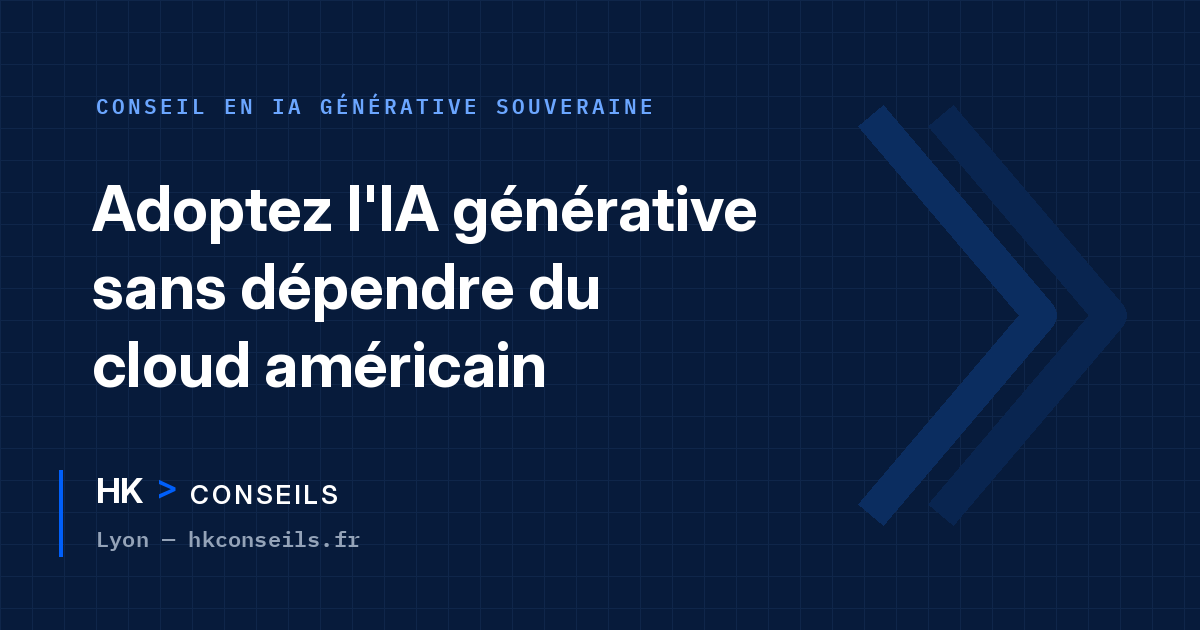
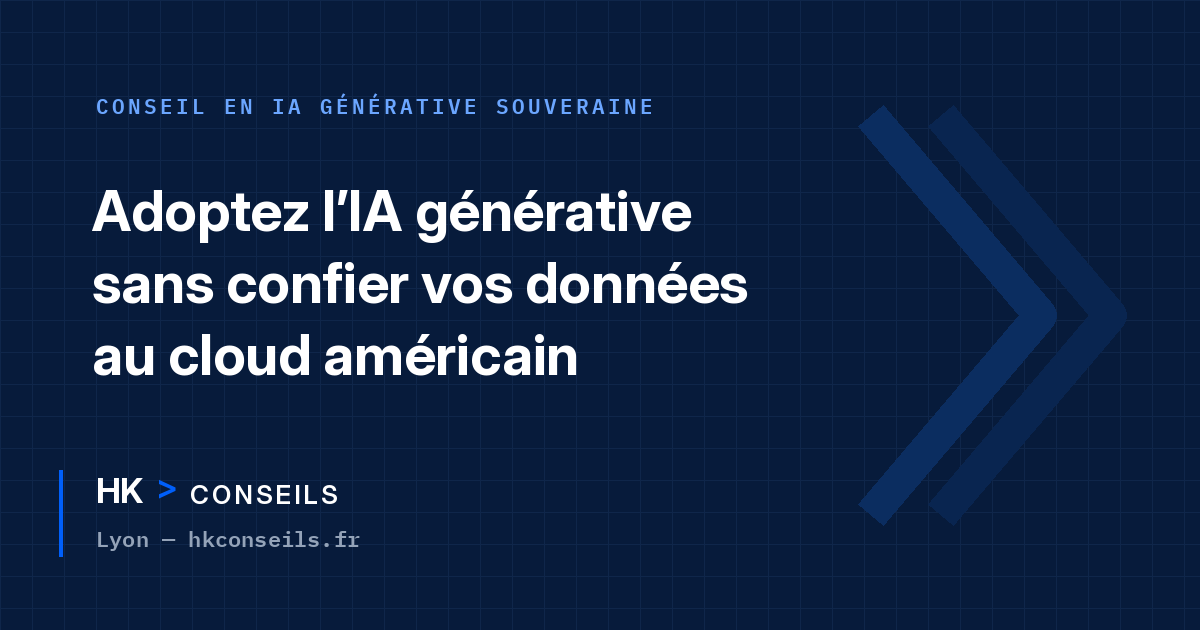
SITE-01b : souveraineté par couche, FAQ n°6, et purge des tirets cadratins
SITE-01b (E1+E2) :
- H1 « sans confier vos données au cloud américain »
- meta description ajustée à 148 car. : la formulation fournie en faisait 162
  et ne contenait pas « souveraine », que le §1.2 demande de conserver
- og:image:alt aligné, et image OG régénérée : elle affichait l'ancienne
  accroche en dur et aurait contredit son propre alt
- 6e question FAQ, DOM et JSON-LD, texte verbatim
- check-jsonld.py : seuil de 5 questions au lieu d'un nombre figé

Passe de rédaction, hors SITE-01b : suppression des 13 tirets cadratins du
corps rédactionnel des trois pages, et de deux énumérations à deux-points.
Aucun fait modifié ; la directive SITE-01 §3.2 autorise explicitement le
travail de microcopie.

Changed region(s): [[0.0617, 0.4222, 0.6475, 0.6333], [0.0925, 0.2714, 0.6475, 0.3921]]

diff --git a/public/index.html b/public/index.html
@@ -4,7 +4,7 @@
 <meta charset="utf-8">
 <meta name="viewport" content="width=device-width, initial-scale=1">
 <title>HK CONSEILS — IA générative souveraine pour PME · Lyon</title>
-<meta name="description" content="Cabinet de conseil IA à Lyon : diagnostic de maturité, déploiement de LLM auto-hébergés (RAG, image, vidéo), formation. IA générative sans cloud américain.">
+<meta name="description" content="Conseil en IA souveraine à Lyon : diagnostic, LLM auto-hébergés (RAG, image, vidéo), formation. Vos données ne quittent jamais votre infrastructure.">
 <link rel="canonical" href="https://hkconseils.fr/">
 <meta name="theme-color" content="#071b3b">
 <meta property="og:type" content="website">
@@ -12,14 +12,14 @@
 <meta property="og:locale" content="fr_FR">
 <meta property="og:url" content="https://hkconseils.fr/">
 <meta property="og:title" content="HK CONSEILS — IA générative souveraine pour PME · Lyon">
-<meta property="og:description" content="Cabinet de conseil IA à Lyon : diagnostic de maturité, déploiement de LLM auto-hébergés (RAG, image, vidéo), formation. IA générative sans cloud américain.">
+<meta property="og:description" content="Conseil en IA souveraine à Lyon : diagnostic, LLM auto-hébergés (RAG, image, vidéo), formation. Vos données ne quittent jamais votre infrastructure.">
 <meta property="og:image" content="https://hkconseils.fr/img/og-image.png">
 <meta property="og:image:width" content="1200">
 <meta property="og:image:height" content="630">
-<meta property="og:image:alt" content="HK CONSEILS — Adoptez l'IA générative sans dépendre du cloud américain">
+<meta property="og:image:alt" content="HK CONSEILS — Adoptez l'IA générative sans confier vos données au cloud américain">
 <meta name="twitter:card" content="summary_large_image">
 <meta name="twitter:title" content="HK CONSEILS — IA générative souveraine pour PME · Lyon">
-<meta name="twitter:description" content="Cabinet de conseil IA à Lyon : diagnostic de maturité, déploiement de LLM auto-hébergés (RAG, image, vidéo), formation. IA générative sans cloud américain.">
+<meta name="twitter:description" content="Conseil en IA souveraine à Lyon : diagnostic, LLM auto-hébergés (RAG, image, vidéo), formation. Vos données ne quittent jamais votre infrastructure.">
 <meta name="twitter:image" content="https://hkconseils.fr/img/og-image.png">
 <link rel="preload" href="fonts/inter-latin-var.woff2" as="font" type="font/woff2" crossorigin>
 <link rel="stylesheet" href="css/main.css">
@@ -48,8 +48,8 @@
   <section class="hero on-dark">
     <div class="wrap">
       <p class="eyebrow">Conseil en IA générative souveraine</p>
-      <h1>Adoptez l’IA générative sans dépendre du cloud américain</h1>
-      <p class="lead">HK CONSEILS aide les PME à concevoir et déployer une IA générative souveraine&#160;: LLM auto-hébergés, données qui ne quittent jamais votre infrastructure, décisions fondées sur la mesure. Chaque recommandation — modèle, GPU, dimensionnement — est d’abord testée sur notre propre plateforme d’inférence de production.</p>
+      <h1>Adoptez l’IA générative sans confier vos données au cloud américain</h1>
+      <p class="lead">HK CONSEILS aide les PME à concevoir et déployer une IA générative souveraine, avec des LLM auto-hébergés et des données qui ne quittent jamais leur infrastructure. Chaque recommandation de modèle, de GPU ou de dimensionnement est d’abord testée sur notre propre plateforme d’inférence de production.</p>
       <div class="cta-row">
         <a class="btn btn-primary" href="mailto:contact@hkconseils.fr">Écrire à HK CONSEILS</a>
         <a class="btn btn-ghost" href="https://www.linkedin.com/in/hemersonkoffi/">LinkedIn</a>
@@ -110,7 +110,7 @@
           <div class="shot">
             <img src="img/editos-capture.webp" width="1280" height="800" loading="lazy" decoding="async" alt="Interface de l'assistant éditorial Editos">
           </div>
-          <p>Application web de correction éditoriale, inférence 100&#160;% locale&#160;: aucun manuscrit ne transite par un service tiers. Pipeline hybride — correction grammaticale déterministe, puis passes IA sur la structure et le style — avec charte éditoriale configurable. Livré en mars 2026, utilisé par le client (usage tracé mars-juin 2026). Démonstration sur demande.</p>
+          <p>Application web de correction éditoriale, inférence 100&#160;% locale&#160;: aucun manuscrit ne transite par un service tiers. Le pipeline enchaîne une correction grammaticale déterministe et des passes IA sur la structure et le style, avec une charte éditoriale configurable. Livré en mars 2026, utilisé par le client (usage tracé mars-juin 2026). Démonstration sur demande.</p>
           <div class="stats">
             <div><b>~5&#160;min</b><span>par chapitre de 1&#160;750 mots</span></div>
             <div><b>51 → 94</b><span>score de conformité /100</span></div>
@@ -167,7 +167,7 @@
         </details>
         <details>
           <summary>L'IA souveraine est-elle compatible RGPD ?</summary>
-          <p>C'est même sa raison d'être : les données restent dans l'Union européenne, sous le contrôle exclusif de l'entreprise, sans transfert vers des sous-traitants américains soumis au Cloud Act. La conformité exige aussi de bonnes pratiques applicatives — minimisation des données, traitement en mémoire des contenus sensibles, journalisation des accès — que HK CONSEILS intègre dès la conception.</p>
+          <p>C'est même sa raison d'être : les données restent dans l'Union européenne, sous le contrôle exclusif de l'entreprise, sans transfert vers des sous-traitants américains soumis au Cloud Act. La conformité exige aussi de bonnes pratiques applicatives, que HK CONSEILS intègre dès la conception : minimiser les données collectées, traiter les contenus sensibles en mémoire, journaliser les accès.</p>
         </details>
         <details>
           <summary>Quels cas d'usage de l'IA générative pour une PME ?</summary>
@@ -175,7 +175,11 @@
         </details>
         <details>
           <summary>Faut-il une équipe technique pour exploiter une IA auto-hébergée ?</summary>
-          <p>Non, à condition que le déploiement soit industrialisé : sauvegardes automatiques, supervision, procédures documentées et transfert de compétences font partie de la prestation. L'objectif de HK CONSEILS est l'autonomie du client — la formation des équipes est l'une de ses trois offres, assurée par un enseignant en cloud et virtualisation.</p>
+          <p>Non, à condition que le déploiement soit industrialisé : sauvegardes automatiques, supervision, procédures documentées et transfert de compétences font partie de la prestation. L'objectif de HK CONSEILS est l'autonomie du client. La formation des équipes est d'ailleurs l'une de ses trois offres, assurée par un enseignant en cloud et virtualisation.</p>
+        </details>
+        <details>
+          <summary>Faut-il tout héberger en Europe pour être souverain ?</summary>
+          <p>Non — la souveraineté se raisonne par sensibilité de la donnée. Les données métier, clients ou de santé exigent une infrastructure maîtrisée, on-premise ou européenne. Un contenu public, comme un site vitrine, peut être diffusé par la plateforme la plus performante, où qu'elle soit. HK CONSEILS applique cette proportionnalité : traitements sensibles auto-hébergés chez ses clients, supports publics sur les meilleurs services disponibles.</p>
         </details>
       </div>
     </div>
@@ -200,7 +204,7 @@
         </div>
         <div>
           <dt>Zone d’intervention</dt>
-          <dd>Lyon — toute la France</dd>
+          <dd>Lyon et toute la France</dd>
         </div>
       </dl>
     </div>
@@ -320,7 +324,7 @@
           "name": "L'IA souveraine est-elle compatible RGPD ?",
           "acceptedAnswer": {
             "@type": "Answer",
-            "text": "C'est même sa raison d'être : les données restent dans l'Union européenne, sous le contrôle exclusif de l'entreprise, sans transfert vers des sous-traitants américains soumis au Cloud Act. La conformité exige aussi de bonnes pratiques applicatives — minimisation des données, traitement en mémoire des contenus sensibles, journalisation des accès — que HK CONSEILS intègre dès la conception."
+            "text": "C'est même sa raison d'être : les données restent dans l'Union européenne, sous le contrôle exclusif de l'entreprise, sans transfert vers des sous-traitants américains soumis au Cloud Act. La conformité exige aussi de bonnes pratiques applicatives, que HK CONSEILS intègre dès la conception : minimiser les données collectées, traiter les contenus sensibles en mémoire, journaliser les accès."
           }
         },
         {
@@ -336,7 +340,15 @@
           "name": "Faut-il une équipe technique pour exploiter une IA auto-hébergée ?",
           "acceptedAnswer": {
             "@type": "Answer",
-            "text": "Non, à condition que le déploiement soit industrialisé : sauvegardes automatiques, supervision, procédures documentées et transfert de compétences font partie de la prestation. L'objectif de HK CONSEILS est l'autonomie du client — la formation des équipes est l'une de ses trois offres, assurée par un enseignant en cloud et virtualisation."
+            "text": "Non, à condition que le déploiement soit industrialisé : sauvegardes automatiques, supervision, procédures documentées et transfert de compétences font partie de la prestation. L'objectif de HK CONSEILS est l'autonomie du client. La formation des équipes est d'ailleurs l'une de ses trois offres, assurée par un enseignant en cloud et virtualisation."
+          }
+        },
+        {
+          "@type": "Question",
+          "name": "Faut-il tout héberger en Europe pour être souverain ?",
+          "acceptedAnswer": {
+            "@type": "Answer",
+            "text": "Non — la souveraineté se raisonne par sensibilité de la donnée. Les données métier, clients ou de santé exigent une infrastructure maîtrisée, on-premise ou européenne. Un contenu public, comme un site vitrine, peut être diffusé par la plateforme la plus performante, où qu'elle soit. HK CONSEILS applique cette proportionnalité : traitements sensibles auto-hébergés chez ses clients, supports publics sur les meilleurs services disponibles."
           }
         }
       ]

diff --git a/public/mentions-legales.html b/public/mentions-legales.html
@@ -38,7 +38,7 @@
       au capital de 100&#160;euros.<br>
       Siège social&#160;: 6 boulevard Édouard Herriot, 69800 Saint-Priest, France.<br>
       Immatriculée au registre du commerce et des sociétés de Lyon
-      sous le numéro 100&#160;332&#160;816 — SIREN 100&#160;332&#160;816.<br>
+      sous le numéro 100&#160;332&#160;816.<br>
       TVA intracommunautaire&#160;: FR&#160;88&#160;100&#160;332&#160;816.<br>
       Courriel&#160;: <a href="mailto:contact@hkconseils.fr">contact@hkconseils.fr</a>.
     </p>
@@ -59,7 +59,7 @@
 
     <h2>Propriété intellectuelle</h2>
     <p>
-      L’ensemble des contenus de ce site — textes, identité visuelle, mise en page — est la
+      L’ensemble des contenus de ce site (textes, identité visuelle, mise en page) est la
       propriété de HK CONSEILS, sauf mention contraire. Toute reproduction ou représentation,
       totale ou partielle, sans autorisation écrite préalable est interdite.
     </p>

diff --git a/public/confidentialite.html b/public/confidentialite.html
@@ -58,8 +58,8 @@
     <h2>Courriels que vous nous adressez</h2>
     <p>
       Le site ne comporte pas de formulaire de contact&#160;: la prise de contact se fait par
-      courriel, à votre initiative. Les données que vous transmettez alors — identité, adresse
-      électronique, contenu du message — sont utilisées uniquement pour répondre à votre
+      courriel, à votre initiative. Les données que vous transmettez alors (identité, adresse
+      électronique, contenu du message) sont utilisées uniquement pour répondre à votre
       demande et, le cas échéant, gérer la relation commerciale qui en découle.
     </p>
     <ul>

diff --git a/scripts/check-jsonld.py b/scripts/check-jsonld.py
@@ -22,6 +22,7 @@ from html.parser import HTMLParser
 from pathlib import Path
 
 INDEX = Path(__file__).resolve().parent.parent / "public" / "index.html"
+FAQ_MINIMUM = 5
 
 
 class Extractor(HTMLParser):
@@ -148,8 +149,13 @@ def main() -> int:
         ]
         dom = [(q, a) for q, a in p.faq]
 
-        if len(markup) != 5:
-            errors.append(f"FAQPage : {len(markup)} question(s) balisée(s), 5 attendues")
+        # La directive SITE-01 en imposait 5, SITE-01b en ajoute une 6e. Le nombre
+        # exact n'est pas la propriété à défendre : ce qui compte est qu'il ne
+        # descende pas sous le socle, et surtout que balisage et DOM concordent.
+        if len(markup) < FAQ_MINIMUM:
+            errors.append(
+                f"FAQPage : {len(markup)} question(s) balisée(s), au moins {FAQ_MINIMUM} attendues"
+            )
         if len(dom) != len(markup):
             errors.append(
                 f"FAQ : {len(dom)} paire(s) dans le DOM contre {len(markup)} dans le balisage"
@@ -176,7 +182,7 @@ def main() -> int:
 
     print(
         f"check-jsonld: OK — @graph valide, "
-        f"{len(graph)} nœuds, 5 Q/R FAQ identiques entre le DOM et le balisage."
+        f"{len(graph)} nœuds, {len(p.faq)} Q/R FAQ identiques entre le DOM et le balisage."
     )
     return 0
 
